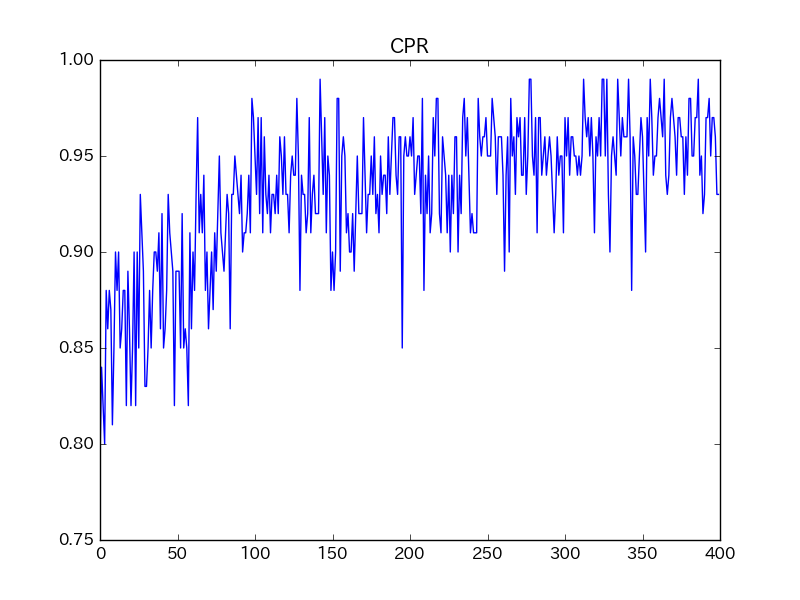
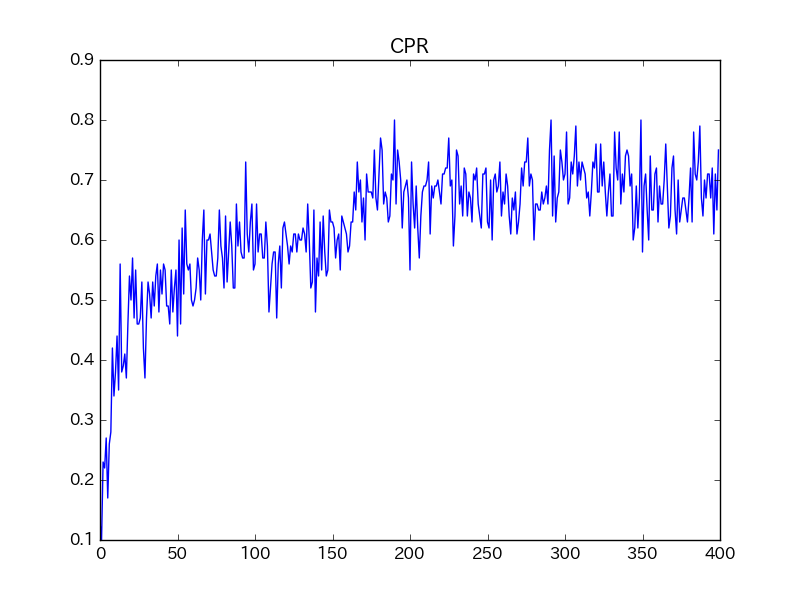
再学習

diff --git a/n-ken/mps20160723.py b/n-ken/mps20160723.py
@@ -92,7 +92,7 @@ if __name__ == '__main__':
     layer2 = Layer(W2, b2, sigmoid)
 
     # learning rate
-    epsilon = 0.15
+    epsilon = 0.1
 
     # batch size
     n_training_data = 1000
@@ -134,10 +134,10 @@ if __name__ == '__main__':
             se_history.append(se(t, y2))
 
             # 誤差逆伝播
-            delta2 = d_se(t, y2) * d_relu(y2)
-            delta1 = layer2._W.T @ delta2 * d_relu(y1)
-            # delta2 = d_se(t, y2) * d_sigmoid(y2)
-            # delta1 = layer2._W.T @ delta2 * d_sigmoid(y1)
+            # delta2 = d_se(t, y2) * d_relu(y2)
+            # delta1 = layer2._W.T @ delta2 * d_relu(y1)
+            delta2 = d_se(t, y2) * d_sigmoid(y2)
+            delta1 = layer2._W.T @ delta2 * d_sigmoid(y1)
 
             # 第二層の重み行列について、偏微分*学習率を除算
             Delta_W2 = delta2 @ y1.T
